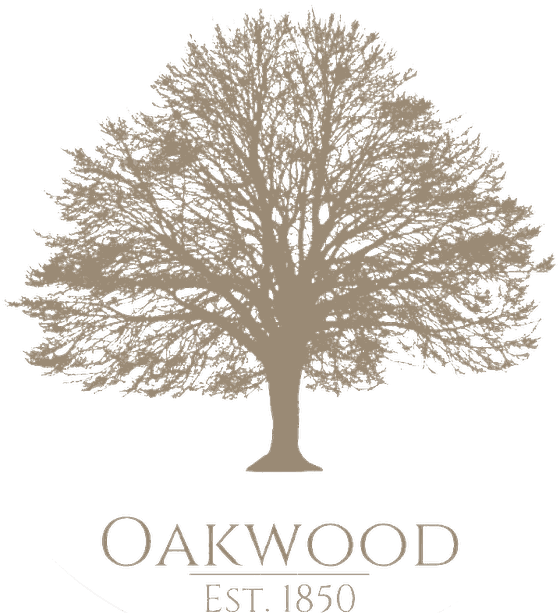
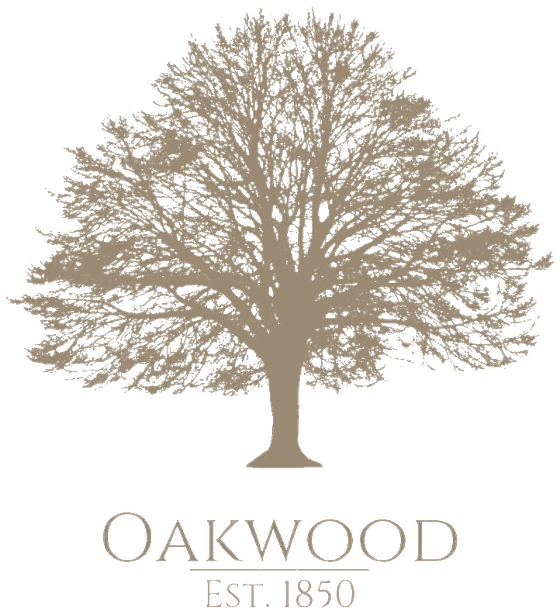
Use a solid green header and fully clean up emblem artifacts
- Header background is now a flat solid green (var(--green)) matching
  the emblem, replacing the dark gradient.
- Regenerated the emblem/favicon from the original source with a hard
  alpha cutoff (kill any pixel under ~150/255) instead of a soft ramp,
  which fully removes a faint ring/blur remnant from the original
  circular photo (previously visible as a stray arc and a diagonal
  ghost line near the text) while keeping the tree and text crisp.

Changed region(s): [[0.0, 0.031, 1.0, 0.6509], [0.1821, 0.8369, 0.8196, 1.0], [0.425, 0.7129, 0.5768, 0.7749]]

diff --git a/css/style.css b/css/style.css
@@ -50,9 +50,7 @@ a:hover { color: var(--brick-dark); }
 
 /* Header */
 .site-header {
-  background:
-    linear-gradient(180deg, rgba(43,36,28,0.55), rgba(43,36,28,0.35)),
-    linear-gradient(135deg, #3c5a41, #2b241c);
+  background: var(--green);
   color: #fff;
   padding: 72px 0 56px;
   text-align: center;